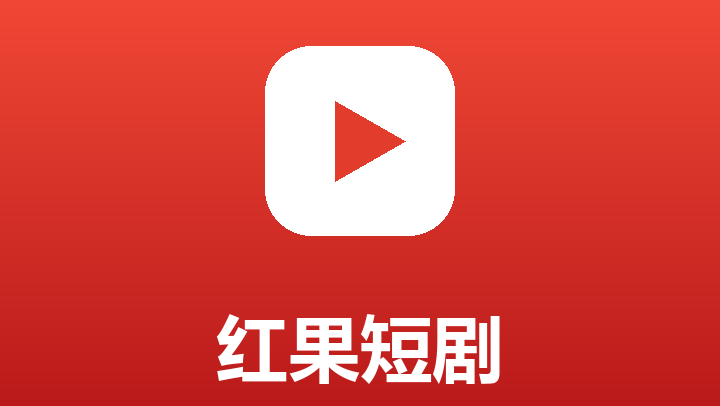
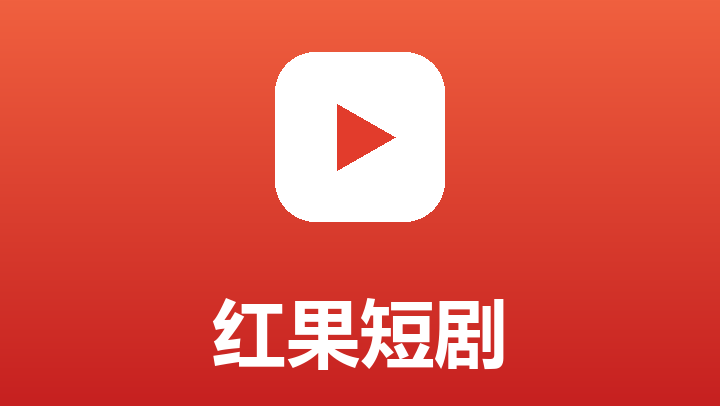
The whole grid speaks one tile language
Apps without a TV banner sat on a tile painted from their icon's
dominant colour - one orange, one blue, one pink - which is what made
the grid read as clutter. They now sit large (150dp mark) on white,
matching the dock's covers; apps with a banner keep filling the tile
with it. Verified across the full grid on MiTV-MFTR0.

diff --git a/app/src/main/java/home/quiet/tv/AppArtwork.java b/app/src/main/java/home/quiet/tv/AppArtwork.java
@@ -50,7 +50,7 @@ final class AppArtwork {
     static Bitmap render(Drawable art,boolean banner){return render(art,banner,WIDTH);}
     private static Bitmap render(Drawable art,boolean banner,int outputWidth){
         float ratio=outputWidth/(float)WIDTH;int outputHeight=Math.round(HEIGHT*ratio);
-        int limitWidth=banner?outputWidth:Math.round(108*ratio),limitHeight=banner?outputHeight:Math.round(108*ratio);
+        int limitWidth=banner?outputWidth:Math.round(150*ratio),limitHeight=banner?outputHeight:Math.round(150*ratio);
         int nativeWidth=art==null?1:Math.max(1,art.getIntrinsicWidth()),nativeHeight=art==null?1:Math.max(1,art.getIntrinsicHeight());
         int width=nativeWidth,height=nativeHeight;
         float scale=Math.min(limitWidth/(float)width,limitHeight/(float)height);
@@ -60,7 +60,9 @@ final class AppArtwork {
         // Scale their original coordinate space instead, without allocating a full-size bitmap.
         if(art!=null){Rect bounds=new Rect(art.getBounds());try{Canvas drawing=new Canvas(source);drawing.scale(width/(float)nativeWidth,height/(float)nativeHeight);art.setBounds(0,0,nativeWidth,nativeHeight);art.draw(drawing);}finally{art.setBounds(bounds);}}
         Bitmap result=Bitmap.createBitmap(outputWidth,outputHeight,Bitmap.Config.ARGB_8888);Canvas canvas=new Canvas(result);
-        canvas.drawColor(background(source,banner));
+        // Apps with a TV banner fill the tile with it; apps with only an icon sit large on white -
+        // one uniform tile language, matching the dock's covers.
+        canvas.drawColor(banner?background(source,true):0xFFFBFBFB);
         canvas.drawBitmap(source,(outputWidth-width)/2f,(outputHeight-height)/2f,new Paint(Paint.ANTI_ALIAS_FLAG|Paint.FILTER_BITMAP_FLAG));
         source.recycle();return result;
     }
